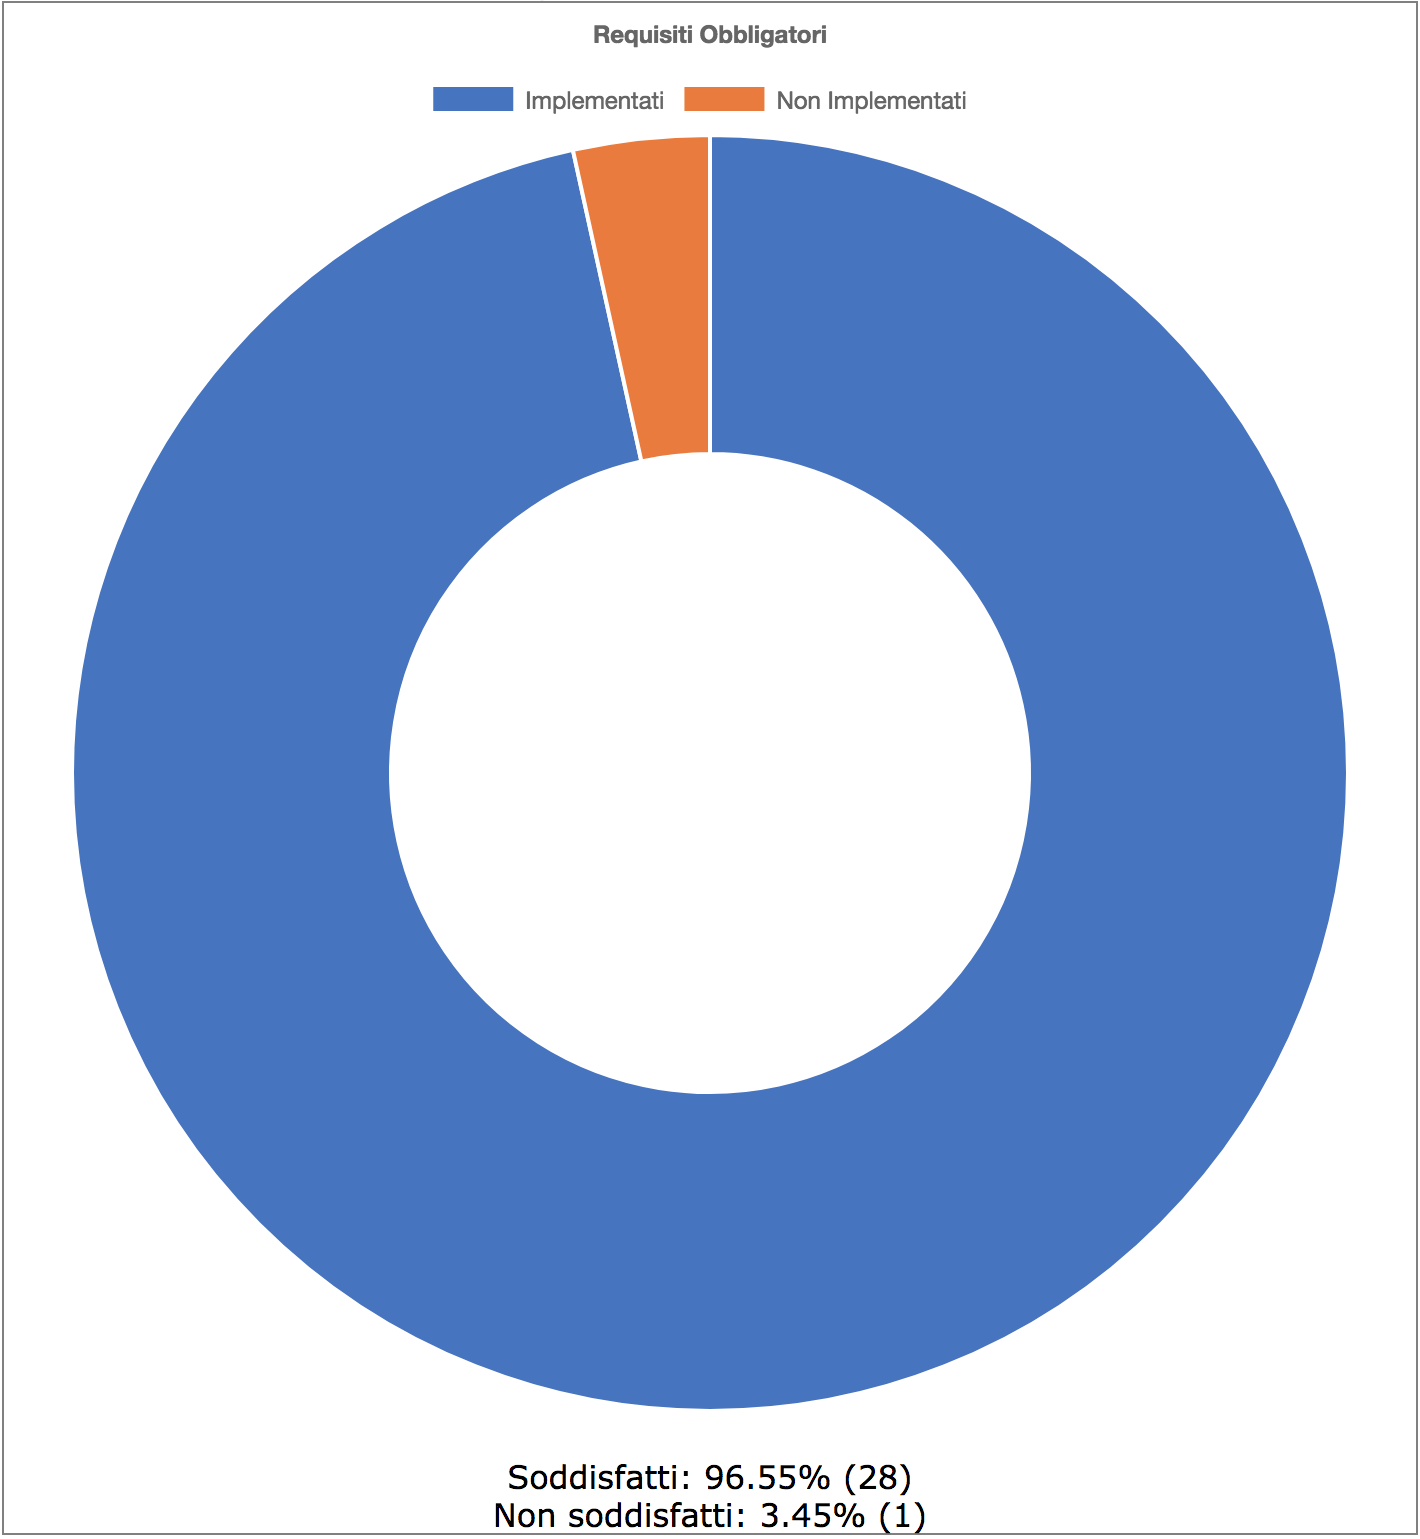
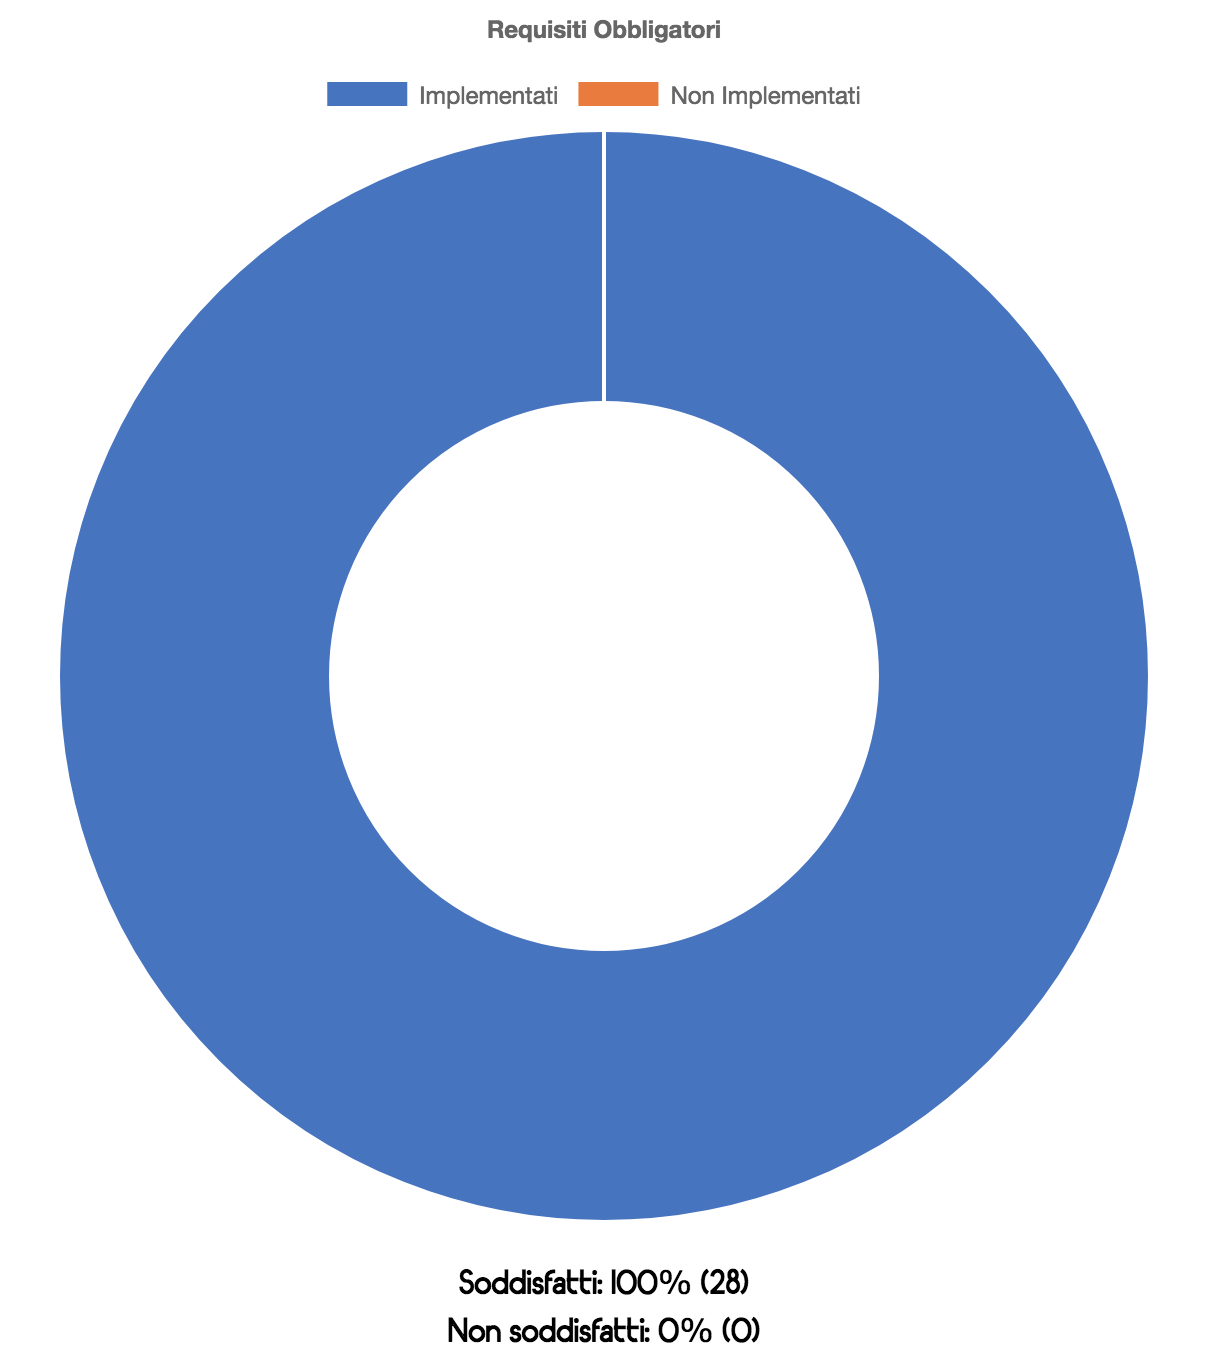
[PdQ] Tracciamento

diff --git a/RA/PianoDiQualifica/Res/Sezioni/ResocontoAttivitaVerifica.tex b/RA/PianoDiQualifica/Res/Sezioni/ResocontoAttivitaVerifica.tex
@@ -34,13 +34,13 @@
 	\hline
 	R2F1.4.1 & Implementato\\
 	\hline
-	R2F1.4.2 & Non implementato\\
+	R2F1.4.2 & Implementato\\
 	\hline
 	R0F1.5 & Implementato\\
 	\hline
 	R2F1.5.1 & Implementato\\
 	\hline
-	R2F1.5.1.1 & Non implementato\\
+	R2F1.5.1.1 & Implementato\\
 	\hline
 	R2F1.5.1.2 & Implementato\\
 	\hline
@@ -58,7 +58,7 @@
 	\hline
 	R1F1.6.2.1 & Implementato\\
 	\hline
-	R1F1.6.2.2 & Non implementato\\
+	R1F1.6.2.2 & Implementato\\
 	\hline
 	R2F1.7 & Implementato\\
 	\hline
@@ -66,9 +66,9 @@
 	\hline
 	R2F1.7.2 & Implementato\\
 	\hline
-	R2F1.7.3 & Non implementato\\
+	R2F1.7.3 & Implementato\\
 	\hline
-	R1F1.8 & Non implementato\\
+	R1F1.8 & Implementato\\
 	\hline
 	R0F2 & Implementato\\
 	\hline
@@ -84,23 +84,23 @@
 	\hline
 	R0F2.1.5 & Implementato\\
 	\hline
-	R1F2.1.5.1 & Non implementato\\
+	R1F2.1.5.1 & Implementato\\
 	\hline
-	R1F2.2 & Non implementato\\
+	R1F2.2 & Implementato\\
 	\hline
-	R1F2.2.1 & Non implementato\\
+	R1F2.2.1 & Implementato\\
 	\hline
-	R1F2.2.1.1 & Non implementato\\
+	R1F2.2.1.1 & Implementato\\
 	\hline
-	R1F2.2.1.2 & Non implementato\\
+	R1F2.2.1.2 & Implementato\\
 	\hline
-	R1F2.2.2 & Non implementato\\
+	R1F2.2.2 & Implementato\\
 	\hline
-	R1F2.2.2.1 & Non implementato\\
+	R1F2.2.2.1 & Implementato\\
 	\hline
-	R1F2.2.2.2 & Non implementato\\
+	R1F2.2.2.2 & Implementato\\
 	\hline
-	R1F2.4 & Non implementato\\
+	R1F2.4 & Implementato\\
 	\hline
 	R0F3 & Implementato\\
 	\hline
@@ -134,41 +134,22 @@
 	\hline
 	R1F4.1.5 & Implementato\\
 	\hline
-	R1F4.2 & Non implementato\\
+	R1F4.2 & Implementato\\
 	\hline
-	R1F4.2.1 & Non implementato\\
+	R1F4.2.1 & Implementato\\
 	\hline
-	R1F4.2.1.1 & Non implementato\\
+	R1F4.2.1.1 & Implementato\\
 	\hline
-	R1F4.2.1.2 & Non implementato\\
+	R1F4.2.1.2 & Implementato\\
 	\hline
-	R1F4.2.2 & Non implementato\\
+	R1F4.2.2 & Implementato\\
 	\hline
-	R1F4.2.2.1 & Non implementato\\
+	R1F4.2.2.1 & Implementato\\
 	\hline
-	R1F4.2.2.2 & Non implementato\\
+	R1F4.2.2.2 & Implementato\\
 	\hline
 	\caption[Tracciamento Requisiti Funzionali]{Tracciamento Requisiti Funzionali}
 \end{longtable}
-
-\begin{figure}[H]
-	\centering
-	\includegraphics[scale = 0.6]{Images/obbligatori.png}
-	\caption{Copertura requisiti funzionali obbligatori}
-	\label{img:seqGraph}
-\end{figure}
-\begin{figure}[H]
-	\centering
-	\includegraphics[scale = 0.6]{Images/desiderabili.png}
-	\caption{Copertura requisiti funzionali desiderabili}
-	\label{img:seqGraph}
-\end{figure}
-\begin{figure}[H]
-	\centering
-	\includegraphics[scale = 0.6]{Images/opzionali.png}
-	\caption{Copertura requisiti funzionali opzionali}
-	\label{img:seqGraph}
-\end{figure}
 
 \begin{longtable}{|c|c|}
 	\hline
@@ -223,6 +204,26 @@
 	\hline
 	\caption[Tracciamento Requisiti Vincolo]{Tracciamento Requisiti Vincolo}
 \end{longtable}
+
+\begin{figure}[H]
+	\centering
+	\includegraphics[scale = 0.2]{Images/obbligatori.png}
+	\caption{Copertura requisiti funzionali obbligatori}
+	\label{img:seqGraph}
+\end{figure}
+\begin{figure}[H]
+	\centering
+	\includegraphics[scale = 0.2]{Images/desiderabili.png}
+	\caption{Copertura requisiti funzionali desiderabili}
+	\label{img:seqGraph}
+\end{figure}
+\begin{figure}[H]
+	\centering
+	\includegraphics[scale = 0.2]{Images/opzionali.png}
+	\caption{Copertura requisiti funzionali opzionali}
+	\label{img:seqGraph}
+\end{figure}
+
 \clearpage
 
 

diff --git a/RA/ProductBaseline/Res/Sezioni/Dati.tex b/RA/ProductBaseline/Res/Sezioni/Dati.tex
@@ -42,14 +42,14 @@ Rappresenta il contenuto vero e proprio dei documenti salvati sull'istanza di El
 \paragraph{RequestHTTP} \Spazio
 \label{sec:requestHTTP}
 Rappresenta il tracciamento di una richiesta di tipo HTTP eseguita all'applicazione monitorata da un browser.
-\textcolor{red}{DESCRIVERE I CAMPI DATI}
+
 
 \paragraph{RequestPageload}\Spazio
 \label{sec:requestPageload}
 Rappresenta il tracciamento di una richiesta di caricamento di una pagina. È sempre associata ad una richiesta HTTP principale grazie al campo \texttt{trace\_id} che risulta uguale in entrambe. 
-\textcolor{red}{DESCRIZIONE DEI CAMPI DATI DELLA RICHIESTA E COSA RAPPRESENTA}
+
 
 \paragraph{RequestDB}\Spazio
 \label{sec:RequestDB}
 Rappresenta il tracciamento di una richiesta che è stata eseguita su un database all'interno dell'applicazione monitorata. Anche questo tipo di richiesta è associata un una richiesta HTTP in quanto il testo della query eseguita è riportata anche tra i metodi del campo \texttt{call\_tree} della richiesta HTTP.
-\textcolor{red}{DESCRIZIONE DEI CAMPI DATI DELLA RICHIESTA E COSA RAPPRESENTA}
+
